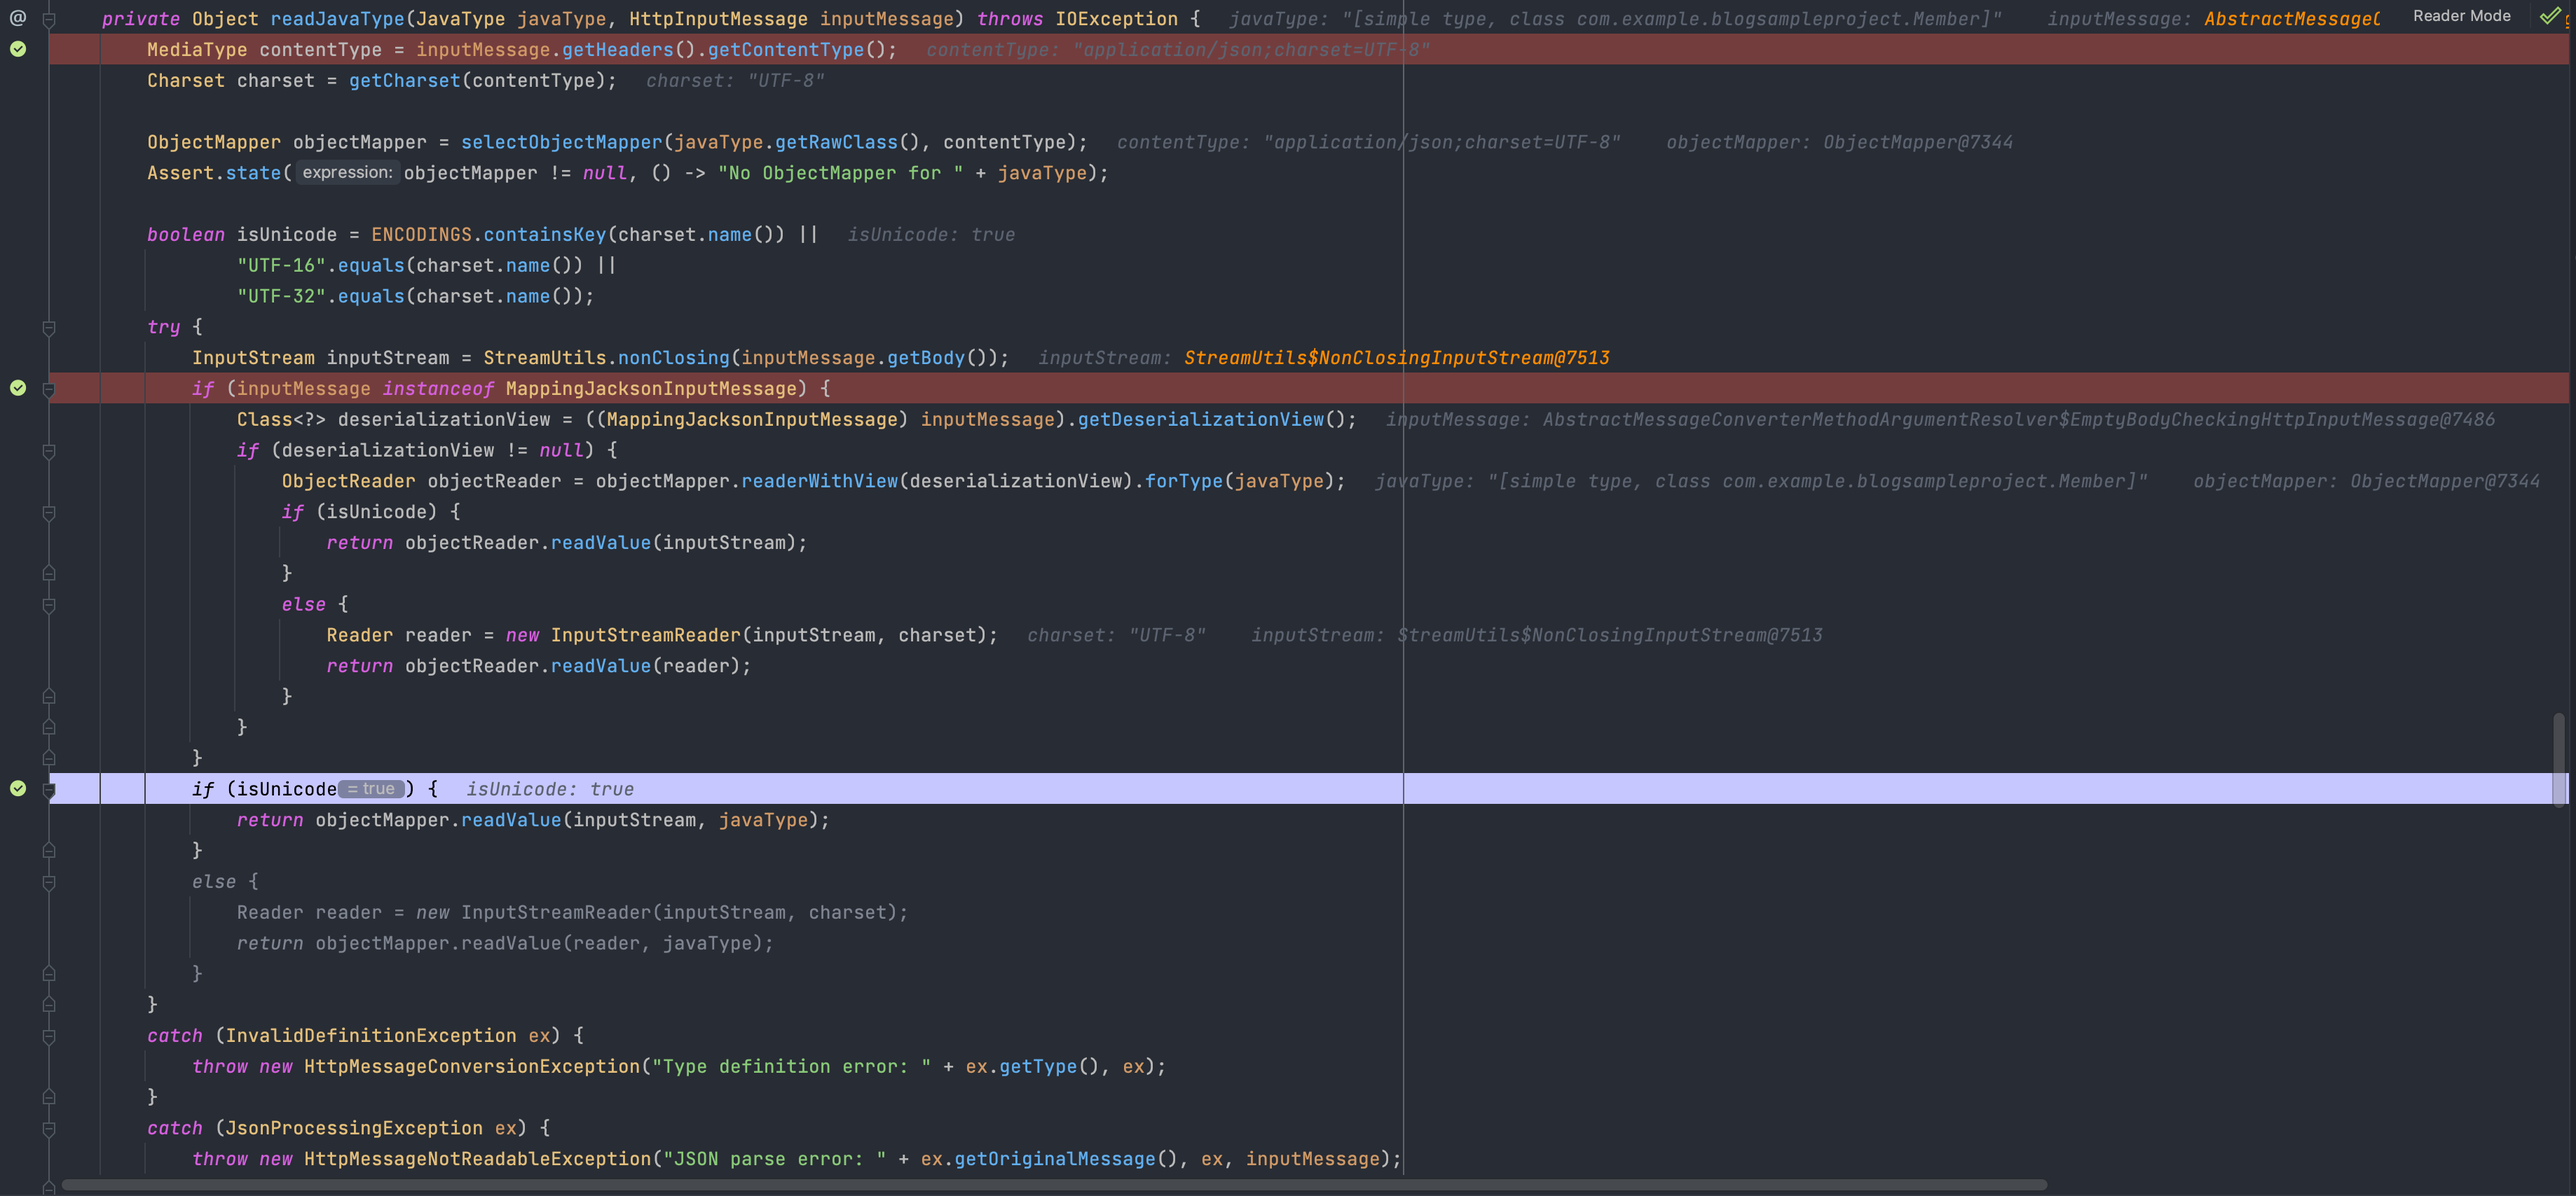
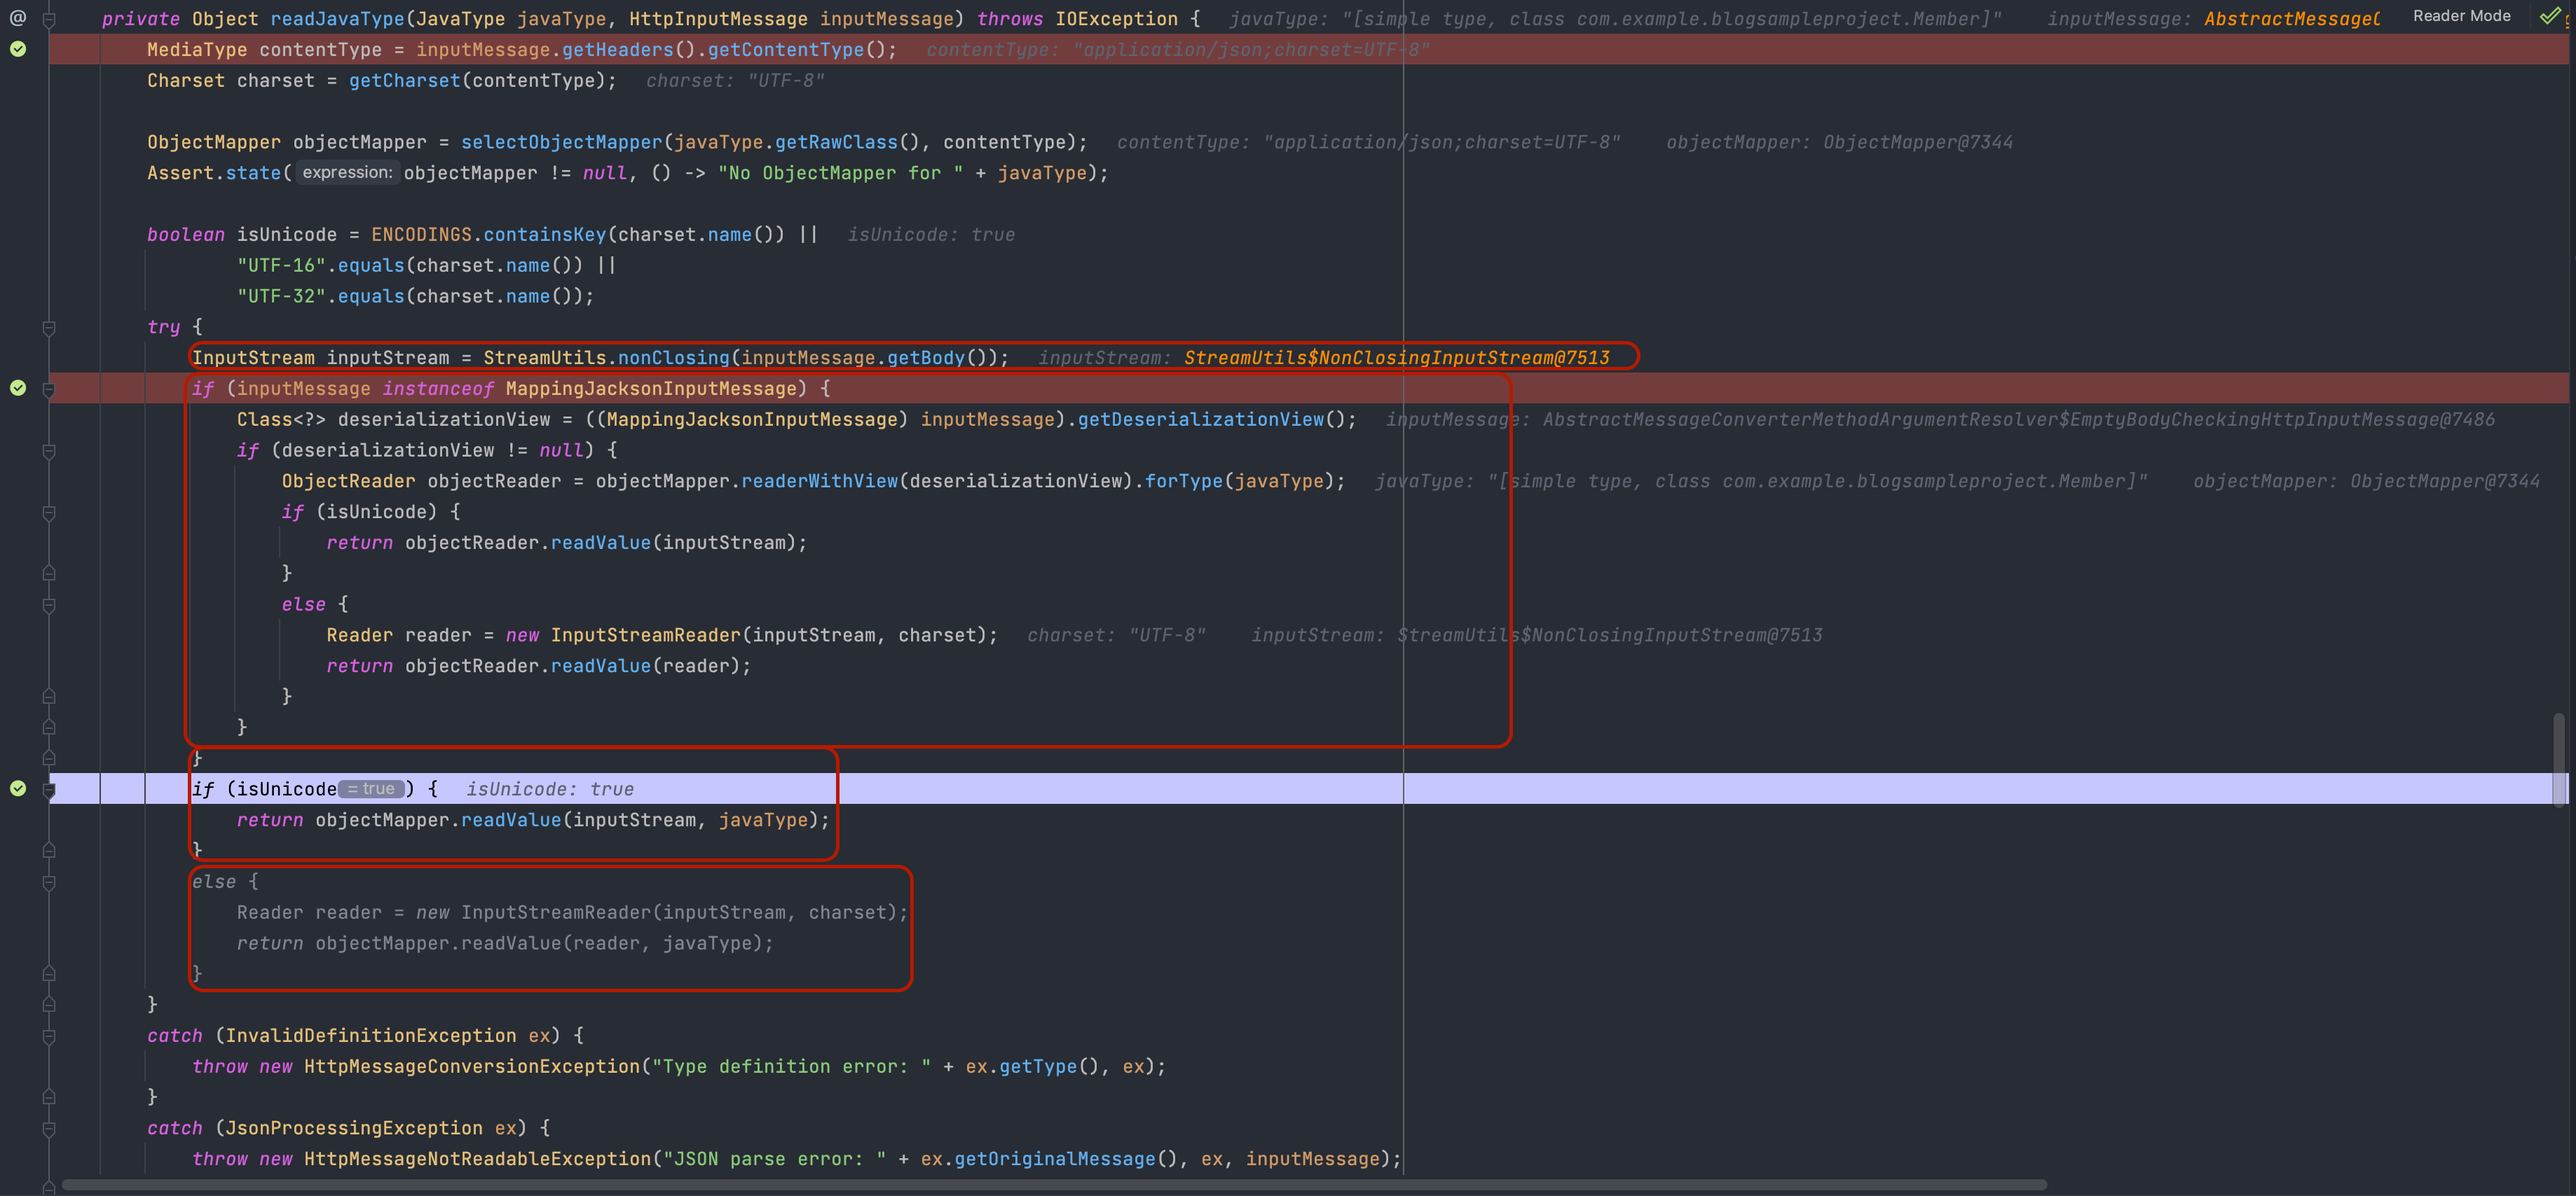
내용 추가

Changed region(s): [[0.062, 0.2793, 0.6513, 0.3413], [0.062, 0.7137, 0.3411, 0.7447], [0.062, 0.6206, 0.3411, 0.6516]]

diff --git a/_posts/2023-04-09-argument-annotation.md b/_posts/2023-04-09-argument-annotation.md
@@ -88,7 +88,7 @@ Spring Framework는 웹 요청을 처리하기 위한 몇 가지 어노테이션
 
 ## 특징
 
-@RequestBody 주석은 HTTP request body를 Spring MVC 컨트롤러의 메소드 매개 변수에 매핑하는데 사용됩니다.  
+@RequestBody 어노테이션은 HTTP request body를 Spring MVC 컨트롤러의 메소드 매개 변수에 매핑하는데 사용됩니다.  
 일반적으로 요청 데이터가 JSON 또는 XML과 같은 형식일 때 사용됩니다.  
 Spring은 ``` org.springframework.http.converter.HttpMessageConverter ```를 사용하여 request body를 매개 변수 유형으로 변환합니다.
 
@@ -110,18 +110,35 @@ Spring은 ``` org.springframework.http.converter.HttpMessageConverter ```를 사
 ``` messageConverters ``` 중 인자로 넘어온 ``` inputMessage(HttpServletRequest) ```를 converting 할 수 있는 converter를 찾습니다.
 converting을 처리할 수 있는 converter는  ``` org.springframework.http.converter.json.MappingJackson2HttpMessageConverter ```로 해당 converter의  ``` T read(Type,Class<?>, HttpInputMessage) ```메소드를 호출하여 주어진 입력 메시지에서 주어진 유형의 객체를 읽고 반환합니다.
 
+아래는 ``` MappingJackson2HttpMessageConverter ``` 의 내부 구현에 대한 설명입니다.
 
-# 차이
+![read](/assets/img/argument/read.png)
 
-``` @ModelAttribute ```를 사용하여 HTTP 요청 매개 변수 및 세션 특성과 같은 다양한 소스의 데이터를 바인딩할 수 있는 반면 ``` @RequestBody ```는 일반적으로 JSON 또는 XML 형식의 데이터에 사용됩니다.  
-또한 ``` @ModelAttribute ```는 GET 요청에 사용되는 반면 ``` @RequestBody ```는 일반적으로 POST 및 PUT 메소드에 사용됩니다.
-- @RequestBody에서는 Setter 사용이 불가능하겠네??(작성예정)
+``` org.springframework.http.converter.json.AbstractJackson2HttpMessageConverter.read(Type, Class<?>, HttpInputMessage) ```는 내부 pirvate 메소드인 ``` Object readJavaType(JavaType, HttpInputMessage) ```를 호출합니다.
+
+![read-java-type](/assets/img/argument/read-java-type.png)
+
+``` MappingJackson2HttpMessageConverter ```은 내부적으로 ObjectMapper를 활용하여 각 분기문의 조건에 따라 readValue()를 사용하여 request body 값을 매개 변수에 값을 바인딩합니다.
+
+> ObjectMapper의 매핑 우선 순위
+> 1. ``` @JsonProperty, @JsonSetter ``` 등 클래스, 필드, 메소드 레벨에서 사용되는 어노테이션을 우선적으로 참고합니다.
+> 2. 클래스 내부에 매핑될 필드와 일치하는 이름을 가진 setter 메서드가 있다면, setter 메소드를 활용하여 값을 할당합니다.
+> 3. 필드의 접근 제어를 우회하여 리플렉션을 사용하거나, 필드가 public인 경우에 직접 값을 설정합니다.
+> 4. 생성자 매개변수와 매핑될 이름이 일치하는 경우, ObjectMapper는 생성자를 통해 객체를 생성하고 매개변수에 값을 할당합니다.
+> 5. ObjectMapper는 기본 생성자를 사용하여 객체를 생성하고, setter 메서드나 필드 접근을 통해 값을 할당합니다.
+
+ObjectMapper는 어노테이션과 setter 메서드가 가장 높은 우선 순위를 가지며, 필드 접근 및 생성자는 보조적으로 사용되는 방법입니다.
+
+결국 클라이언트에서 요청한 request body는 적절한 converter를 활용하여 매개 변수 타입으로 매핑하여 ``` @RequestBody ```를 사용한 컨트롤러 메소드에 반환되게 됩니다.
 
 # 결론
 
-@ModelAttribute와 @RequestBody는 모두 Spring MVC에서 활용되는 중요한 어노테이션입니다.  
-요청 데이터를 메소드 매개 변수에 매핑하는 데 사용되지만 목적이 다릅니다.  
-``` @ModelAttribute ```는 다양한 소스의 데이터를 명명된 모델 특성으로 바인딩하는 데 사용되는 반면 ``` @RequestBody ``` 는 HTTP 요청 본문을 메소드에 매핑하는데 사용됩니다.
+``` @ModelAttribute ```를 사용하여 HTTP 요청 매개 변수 및 세션 특성과 같은 다양한 소스의 데이터를 바인딩할 수 있는 반면 ``` @RequestBody ```는 일반적으로 JSON 또는 XML 형식의 데이터에 사용됩니다.  
+또한 ``` @ModelAttribute ```는 GET 요청에 사용되는 반면 ``` @RequestBody ```는 일반적으로 POST 및 PUT 메소드에 사용됩니다.
 
-오탈자 및 오류 내용을 댓글 또는 메일로 알려주시면, 검토 후 조치하겠습니다.
+``` @ModelAttribute와 @RequestBody ```는 모두 Spring MVC에서 활용되는 중요한 어노테이션입니다.  
+두 어노테이션 모두 요청 데이터를 메소드 매개 변수에 매핑하는데 사용되지만 ``` @ModelAttribute ```는 다양한 소스의 데이터를 모델 특성으로 바인딩하는 데 사용되는 반면 ``` @RequestBody ``` 는 HTTP request body를 메소드에 매핑하는데 사용됩니다.
 
+또한 ``` @ModelAttribute ```는 적절한 생성자가 없다면 setter를 필수로 가져야하지만, ``` @RequestBody ```는 내부적으로 ObjectMapper를 사용하기 때문에 setter 메소드가 필요 없다는 것이 큰 차이입니다.
+
+오탈자 및 오류 내용을 댓글 또는 메일로 알려주시면, 검토 후 조치하겠습니다.  
